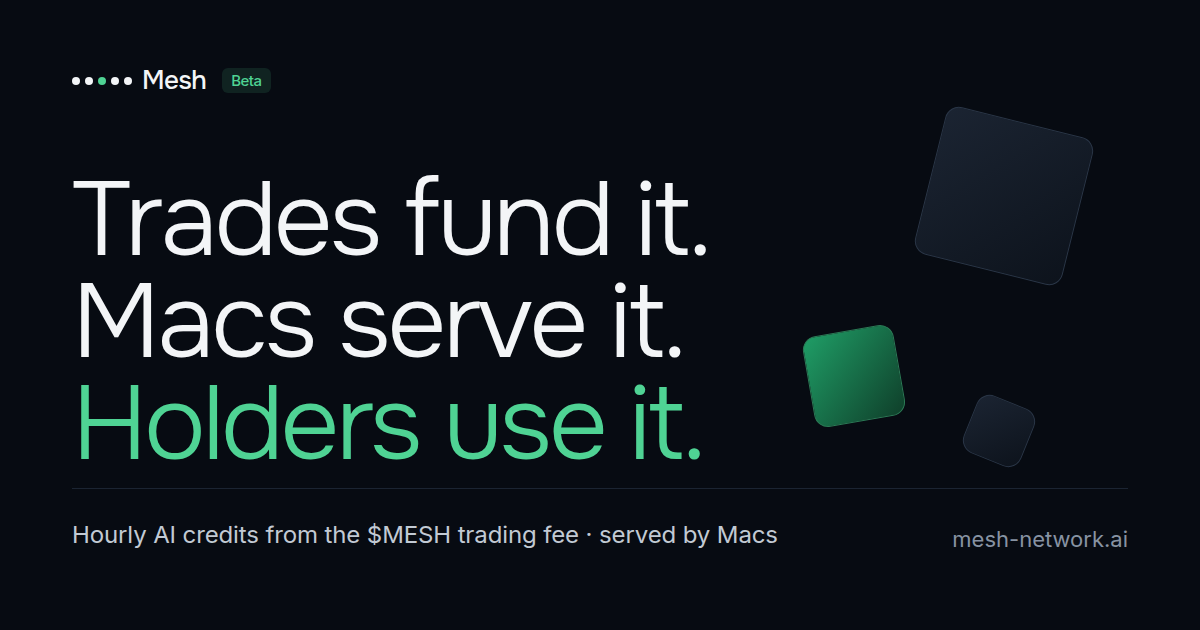
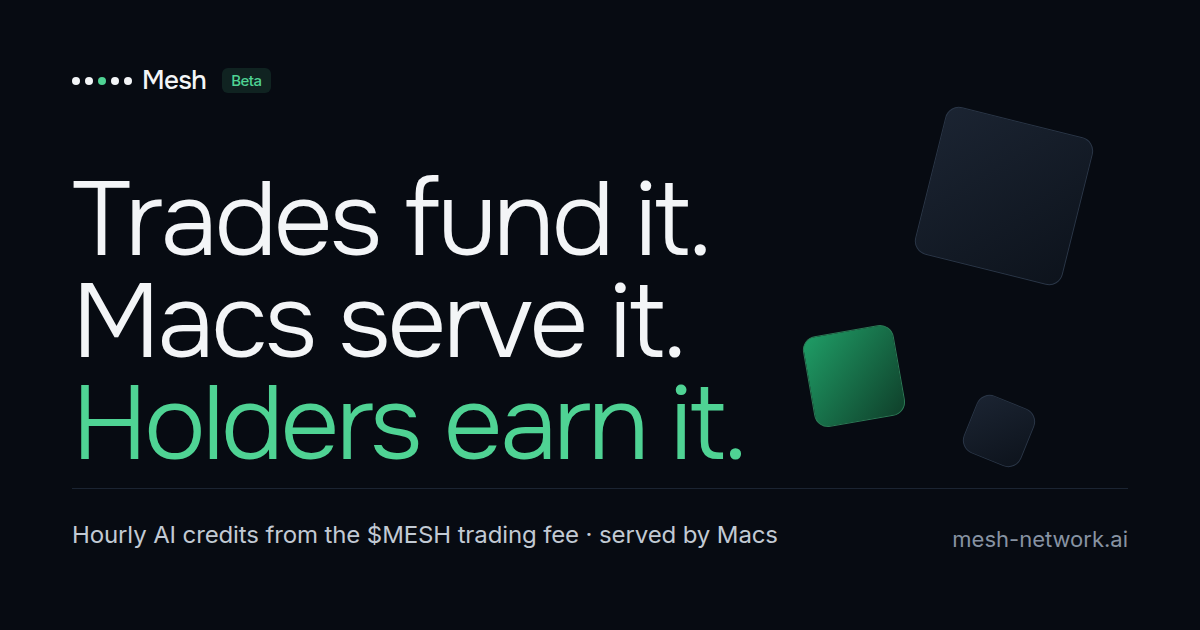
engine 2 on from launch: usageShare.enabled=true, network price $0.08/M (nodes keep $0.06, the $0.02 margin is shared 30/70), frontier at list; headline 'Holders earn it.' everywhere (hero, OG card, meta, brand); hero reads the shipped flag until /stats answers; mock mirrors config; pricing docs and

Changed region(s): [[0.37, 0.6032, 0.6167, 0.754]]

diff --git a/apps/gateway/test/catalogue.test.ts b/apps/gateway/test/catalogue.test.ts
@@ -60,8 +60,8 @@ describe('model catalogue: config', () => {
     expect(prices.models['anthropic/claude-sonnet-4.5']).toMatchObject({ promptUsdPerM: 3, completionUsdPerM: 15, tier: 'frontier' });
   });
 
-  it('requestPricing: markup and discount are exclusive; legacy markupBps folds into upstreamMarkupBps; defaults ship at 0 / 0.02', () => {
-    expect(testConfig.requestPricing).toMatchObject({ upstreamMarkupBps: 0, upstreamDiscountBps: 0, networkPricePerMTokens: 0.02 });
+  it('requestPricing: markup and discount are exclusive; legacy markupBps folds into upstreamMarkupBps; defaults ship at 0 / 0.08', () => {
+    expect(testConfig.requestPricing).toMatchObject({ upstreamMarkupBps: 0, upstreamDiscountBps: 0, networkPricePerMTokens: 0.08 });
     const legacy = parseTokenomics({ ...testConfig, requestPricing: { mode: 'passthrough', markupBps: 500 } });
     expect(legacy.requestPricing.upstreamMarkupBps).toBe(500);
     expect(() => parseTokenomics({ ...testConfig, requestPricing: { mode: 'passthrough', upstreamMarkupBps: 500, upstreamDiscountBps: 1000 } })).toThrow(/exclusive/);
@@ -78,9 +78,9 @@ describe('model catalogue: config', () => {
     expect(meshPricePerM(15, { upstreamMarkupBps: 1000, upstreamDiscountBps: 0 })).toBe(16.5);
   });
 
-  it('guest.allowedTiers defaults to open + fast; usageShare ships disabled with 3000/7000 and validates the split', () => {
+  it('guest.allowedTiers defaults to open + fast; usageShare ships enabled with 3000/7000 and validates the split', () => {
     expect(testConfig.guest.allowedTiers).toEqual(['open', 'fast']);
-    expect(testConfig.usageShare).toEqual({ enabled: false, holderBps: 3000, treasuryBps: 7000, sources: { network: true, upstream: true, marketplaceFee: true } });
+    expect(testConfig.usageShare).toEqual({ enabled: true, holderBps: 3000, treasuryBps: 7000, sources: { network: true, upstream: true, marketplaceFee: true } });
     expect(() => parseTokenomics({ ...testConfig, usageShare: { enabled: true, holderBps: 3000, treasuryBps: 6000 } })).toThrow(/10000/);
     const minimal = parseTokenomics({ ...testConfig, usageShare: undefined });
     expect(minimal.usageShare.enabled).toBe(false);
@@ -94,7 +94,7 @@ describe('GET /v1/models', () => {
     expect(r.statusCode).toBe(200);
     const body = r.json();
     expect(body.object).toBe('list');
-    expect(body.pricing).toEqual({ networkPricePerMTokens: 0.02, upstreamDiscountBps: 0, upstreamMarkupBps: 0, guestTiers: ['open', 'fast'] });
+    expect(body.pricing).toEqual({ networkPricePerMTokens: 0.08, upstreamDiscountBps: 0, upstreamMarkupBps: 0, guestTiers: ['open', 'fast'] });
     const ids: string[] = body.data.map((m: { id: string }) => m.id);
     // every curated model is listed, except an upstream id that is also a network alias's sibling (one row per tag)
     for (const id of CURATED.filter((c) => c !== 'meta-llama/llama-3.1-8b-instruct')) expect(ids).toContain(id);
@@ -116,7 +116,7 @@ describe('GET /v1/models', () => {
       tier: 'open',
       served: 'both',
       listPrice: { promptUsdPerM: 0.05, completionUsdPerM: 0.08 },
-      meshPrice: { promptUsdPerM: 0.02, completionUsdPerM: 0.02 },
+      meshPrice: { promptUsdPerM: 0.08, completionUsdPerM: 0.08 },
       privacy: 'network',
       online: 0,
       guestAllowed: true,

diff --git a/apps/web/index.html b/apps/web/index.html
@@ -7,7 +7,7 @@
     <meta name="theme-color" content="#ffffff" media="(prefers-color-scheme: light)" />
     <meta name="theme-color" content="#070b12" media="(prefers-color-scheme: dark)" />
 
-    <title>Mesh — Trades fund it. Macs serve it. Holders use it.</title>
+    <title>Mesh — Trades fund it. Macs serve it. Holders earn it.</title>
     <meta name="description" content="Hold 1,000 $MESH and AI credits land in your wallet every hour, paid from the trading fee. Spend them on open models answered by Macs at a flat network price or on Claude, GPT and Gemini through zero-data-retention providers, and sell what you do not use on the credit marketplace. Credits are a share of fees, not a promise." />
     <meta name="robots" content="index, follow" />
     <link rel="canonical" href="https://mesh-network.ai/" />
@@ -19,21 +19,21 @@
     <!-- Open Graph -->
     <meta property="og:type" content="website" />
     <meta property="og:site_name" content="Mesh" />
-    <meta property="og:title" content="Mesh — Trades fund it. Macs serve it. Holders use it." />
+    <meta property="og:title" content="Mesh — Trades fund it. Macs serve it. Holders earn it." />
     <meta property="og:description" content="Hold 1,000 $MESH and AI credits land every hour from the trading fee. One OpenAI-compatible key: open models on Macs at a flat network price, frontier models at list. Sell unused credits on the marketplace." />
     <meta property="og:url" content="https://mesh-network.ai/" />
     <meta property="og:image" content="https://mesh-network.ai/og.png" />
     <meta property="og:image:width" content="1200" />
     <meta property="og:image:height" content="630" />
-    <meta property="og:image:alt" content="Mesh: Trades fund it. Macs serve it. Holders use it. Two engines, one hourly pool." />
+    <meta property="og:image:alt" content="Mesh: Trades fund it. Macs serve it. Holders earn it. Two engines, one hourly pool." />
     <meta property="og:locale" content="en_US" />
 
     <!-- Twitter / X -->
     <meta name="twitter:card" content="summary_large_image" />
-    <meta name="twitter:title" content="Mesh — Trades fund it. Macs serve it. Holders use it." />
+    <meta name="twitter:title" content="Mesh — Trades fund it. Macs serve it. Holders earn it." />
     <meta name="twitter:description" content="Hold 1,000 $MESH and AI credits land every hour from the trading fee. Open models on Macs at a flat network price, frontier models at list, unused credits sold on the marketplace." />
     <meta name="twitter:image" content="https://mesh-network.ai/og.png" />
-    <meta name="twitter:image:alt" content="Mesh: Trades fund it. Macs serve it. Holders use it. Two engines, one hourly pool." />
+    <meta name="twitter:image:alt" content="Mesh: Trades fund it. Macs serve it. Holders earn it. Two engines, one hourly pool." />
 
     <script>
       try {

diff --git a/apps/web/scripts/og-card.html b/apps/web/scripts/og-card.html
@@ -1,0 +1,27 @@
+<!doctype html><html><head><meta charset="utf-8"><style>
+@font-face{font-family:Onest;font-weight:300;src:url(file:///home/claude/mesh-old/apps/web/node_modules/@fontsource/onest/files/onest-latin-300-normal.woff2) format('woff2')}
+@font-face{font-family:Onest;font-weight:500;src:url(file:///home/claude/mesh-old/apps/web/node_modules/@fontsource/onest/files/onest-latin-500-normal.woff2) format('woff2')}
+@font-face{font-family:Inter;font-weight:400;src:url(file:///home/claude/mesh-old/apps/web/node_modules/@fontsource/inter/files/inter-latin-400-normal.woff2) format('woff2')}
+@font-face{font-family:Inter;font-weight:500;src:url(file:///home/claude/mesh-old/apps/web/node_modules/@fontsource/inter/files/inter-latin-500-normal.woff2) format('woff2')}
+html,body{margin:0;width:1200px;height:630px;background:#070b12;color:#f3f5f7;font-family:Inter,sans-serif;-webkit-font-smoothing:antialiased}
+.wrap{position:relative;width:1200px;height:630px;overflow:hidden}
+.logo{position:absolute;left:72px;top:64px;display:flex;align-items:center;gap:10px;font-family:Onest;font-weight:500;font-size:26px;letter-spacing:-.02em}
+.dots{display:inline-flex;gap:5px}.dots i{width:8px;height:8px;border-radius:50%;background:#f3f5f7;display:block}.dots i:nth-child(3){background:#4fd394}
+.beta{font:500 15px Inter;color:#4fd394;background:rgba(79,211,148,.12);padding:3px 9px;border-radius:6px;margin-left:6px}
+h1{position:absolute;left:72px;top:170px;margin:0;font-family:Onest;font-weight:300;font-size:104px;line-height:.98;letter-spacing:-.035em}
+h1 em{font-style:normal;color:#4fd394}
+.sub{position:absolute;left:72px;top:520px;font-size:24px;color:#c2cad4;letter-spacing:-.005em}
+.url{position:absolute;right:72px;top:526px;font-size:22px;color:#8793a3}
+.cube{position:absolute;border-radius:14px;background:linear-gradient(135deg,#1b2432,#0d131c);border:1px solid #2a3647}
+.c1{width:150px;height:150px;right:120px;top:120px;transform:rotate(14deg)}
+.c2{width:90px;height:90px;right:300px;top:330px;transform:rotate(-10deg);background:linear-gradient(135deg,#1f9d66,#0f3f2a);border-color:#2b7a55}
+.c3{width:60px;height:60px;right:170px;top:400px;transform:rotate(22deg)}
+.line{position:absolute;left:72px;right:72px;top:488px;height:1px;background:#1b2432}
+</style></head><body><div class="wrap">
+<div class="cube c1"></div><div class="cube c2"></div><div class="cube c3"></div>
+<div class="logo"><span class="dots"><i></i><i></i><i></i><i></i><i></i></span>Mesh<span class="beta">Beta</span></div>
+<h1>Trades fund it.<br>Macs serve it.<br><em>Holders earn it.</em></h1>
+<div class="line"></div>
+<div class="sub">Hourly AI credits from the $MESH trading fee · served by Macs</div>
+<div class="url">mesh-network.ai</div>
+</div></body></html>

diff --git a/apps/web/src/pages/Landing.tsx b/apps/web/src/pages/Landing.tsx
@@ -83,7 +83,7 @@ const CHAT_ID = 'guest-chat';
 export function Landing() {
   const { data: stats, error } = useStats();
   // Engine 2 (docs/PRICING.md): the gateway says whether the usage-revenue share is on. Off until it confirms.
-  const usageOn = stats?.usageShareEnabled === true;
+  const usageOn = stats?.usageShareEnabled ?? TOKENOMICS.usageShare.enabled; // the gateway's live flag; the shipped config until it answers
   const discountBps = stats?.upstreamDiscountBps ?? T.upstreamDiscountBps;
   const frontierPhrase = discountBps > 0 ? `frontier models ${discountBps / 100}% below list` : 'frontier models through zero-data-retention providers';
   // `?ref=CODE` from a referral link: keep it until the wallet signs in and claims it on the dashboard.
@@ -144,23 +144,11 @@ export function Landing() {
             <BetaPill />
           </p>
           <h1 className="display home-h1" id="hero-h1">
-            {usageOn ? (
-              <>
-                Trades fund it.
-                <br />
-                Usage funds it.
-                <br />
-                <em>Macs serve it.</em>
-              </>
-            ) : (
-              <>
-                Trades fund it.
-                <br />
-                Macs serve it.
-                <br />
-                <em>Holders use it.</em>
-              </>
-            )}
+            Trades fund it.
+            <br />
+            Macs serve it.
+            <br />
+            <em>Holders earn it.</em>
           </h1>
           <p className="lede">
             Hold {minHold} and AI credits land in your wallet every {epochWord}, paid from the {feePct} trading fee
@@ -217,7 +205,7 @@ export function Landing() {
             </h2>
             <p className="sub">
               Trading pays a {feePct} fee; {holderPct} becomes credits for holders every {epochWord}, {treasuryPct} goes to the treasury. Paid requests and marketplace sales leave a
-              margin{usageOn ? ', and a share of it joins the same pool' : '; the holder share of it is built and switches on with the pricing decision'}. The treasury pays the Macs.
+              margin{usageOn ? ', and a share of it joins the same pool' : '; the holder share of it switches on with the token launch'}. The treasury pays the Macs.
             </p>
           </div>
         </div>

diff --git a/apps/web/e2e/app.spec.ts b/apps/web/e2e/app.spec.ts
@@ -8,14 +8,15 @@ test.describe('landing', () => {
     const h1 = page.getByRole('heading', { level: 1 });
     await expect(h1).toContainText('Trades fund it.');
     await expect(h1).toContainText('Macs serve it.');
-    // config/tokenomics.json ships usageShare.enabled=false → the third line is the holders one, and the
-    // engine-2 arrow into the pool is dashed with a "coming" label (never claimed live).
-    await expect(h1).toContainText('Holders use it.');
-    await expect(h1).not.toContainText('Usage funds it.');
+    // config/tokenomics.json ships usageShare.enabled=true → the engine-2 arrow into the pool is solid
+    // and the lede names the usage share; the gateway's live flag can still switch it off.
+    await expect(h1).toContainText('Holders earn it.');
     const engines = page.locator('.engines');
-    await expect(engines).toHaveAttribute('data-usage-share', 'off');
+    await expect(engines).toHaveAttribute('data-usage-share', 'on');
     await expect(engines.locator('svg.wide')).toBeVisible();
-    await expect(engines.locator('svg.wide')).toContainText('30% share · coming');
+    await expect(engines.locator('svg.wide')).toContainText('30% share');
+    await expect(engines.locator('svg.wide')).not.toContainText('coming');
+    await expect(page.locator('.home-hero .lede')).toContainText('share of paid usage');
     await expect(engines.locator('svg.wide')).toContainText('1.5% fee');
     await expect(page.getByText('Nothing is minted to pay anyone.')).toBeVisible();
     // Lede names the four things the product does.
@@ -560,7 +561,7 @@ test.describe('signed-in app', () => {
     await expect(page.locator('#treasury')).toContainText('Treasury ledger');
     await expect(page.locator('#treasury')).toContainText('Credit marketplace');
     await expect(page.locator('#treasury')).toContainText('Usage-revenue share');
-    await expect(page.locator('#treasury .pill', { hasText: 'off' })).toBeVisible(); // usageShare ships disabled
+    await expect(page.locator('#treasury .pill', { hasText: /^on$/ })).toBeVisible(); // usageShare ships enabled
     await expect(page.locator('main')).not.toContainText('Something broke');
     // Old addresses redirect and keep their hash.
     await page.goto('/report#treasury');

diff --git a/apps/gateway/test/usage-share.test.ts b/apps/gateway/test/usage-share.test.ts
@@ -98,7 +98,7 @@ describe('usage-revenue share: gateway', () => {
     const { serveNetwork, serveUpstream, pool, poolRows, logRows, app } = await boot(cfg({ requestPricing: { ...testConfig.requestPricing, networkPricePerMTokens: 0.08, upstreamMarkupBps: 2000 } }));
     const { res, jobId } = await serveNetwork();
     expect(res.json().usage.cost).toBe(NET_BILLED / 1e6);
-    expect(networkMicros(TOKENS)).not.toBe(NET_BILLED); // this test runs its own price, not the shipped 0.02
+    expect(networkMicros(TOKENS)).toBe(NET_BILLED); // 0.08/M is also the shipped price
     expect(rewardMicros(TOKENS)).toBe(NET_REWARD);
     expect(poolRows()).toEqual([{ source: 'usage', usd_micros: NET_HOLDERS, ref: `usage:job:${jobId}` }]);
     expect(logRows()[0]).toMatchObject({ source: 'network', wallet: 'alice', model: 'llama-3.1-8b', billed_micros: NET_BILLED, cost_micros: NET_REWARD, margin_micros: NET_MARGIN, holder_micros: NET_HOLDERS, treasury_micros: NET_MARGIN - NET_HOLDERS });
@@ -133,7 +133,7 @@ describe('usage-revenue share: gateway', () => {
     expect(stats.usageShareEnabled).toBe(true);
   });
 
-  it('disabled (the shipped default): paid requests write nothing', async () => {
+  it('disabled: paid requests write nothing', async () => {
     const { serveNetwork, serveUpstream, pool, logRows, app } = await boot(cfg({}, { enabled: false }));
     await serveNetwork();
     await serveUpstream();
@@ -142,7 +142,7 @@ describe('usage-revenue share: gateway', () => {
     const report = (await app.inject({ method: 'GET', url: '/report' })).json();
     expect(report.totals.usageShare).toMatchObject({ enabled: false, marginUsd: 0, toHoldersUsd: 0, toTreasuryUsd: 0 });
     expect((await app.inject({ method: 'GET', url: '/stats' })).json().usageShareToHolders24hUsd).toBe(0);
-    expect(testConfig.usageShare.enabled).toBe(false);
+    expect(testConfig.usageShare.enabled).toBe(true); // shipped on
   });
 
   it('negative margin contributes nothing: an upstream discount (billed < list) and a network price below the node reward', async () => {

diff --git a/apps/web/src/content/brief.ts b/apps/web/src/content/brief.ts
@@ -12,6 +12,7 @@ export function meshBrief(): string {
     `- A ${(t.tradeFeeBps / 100).toFixed(1)}% fee on every $${t.ticker} trade is collected automatically. Every hour, ${t.holderShareBps / 100}% of it becomes AI credits (denominated in US dollars) split pro rata across wallets holding at least ${t.minHoldTokens.toLocaleString()} ${t.ticker}; ${t.treasuryShareBps / 100}% goes to the treasury, which pays the Macs that serve requests.`,
     `- Credits are spent through an OpenAI-compatible API or the chat app: open models (Llama, Qwen) run on Apple Silicon Macs in the network for a flat $${t.networkPricePerMTokens} per million tokens; frontier models (Claude, GPT, Gemini, DeepSeek, Grok and others) go through zero-data-retention upstream providers at list price.`,
     `- Anyone can run a node: a Mac with Ollama, linked with a one-time code from the web app. Nodes earn $${t.nodeRewardUsdPerMTokens} per million tokens served, paid from the treasury share. Nodes never see who asked and keep nothing after the reply.`,
+    `- A second engine: the margin on paid requests (the network price minus what the Mac is paid, plus the marketplace fee) is shared ${t.usageShare.holderBps / 100}% to the hourly holder pool and ${t.usageShare.treasuryBps / 100}% to the treasury. Frontier requests carry no margin by design.`,
     `- Credits nobody will use can be sold on a marketplace below face value; the fee is ${t.marketplace.feeBps / 100}%, half of it back to the holder pool.`,
     `- Nothing is minted to pay anyone; every epoch, fee and payout is public on the stats page. ${t.name} is in open beta; the token launches on Pons on Robinhood Chain.`,
     'Keep answers short and concrete. If asked something about Mesh that is not covered above, say you do not know rather than guessing.',

diff --git a/apps/gateway/test/network.test.ts b/apps/gateway/test/network.test.ts
@@ -178,7 +178,7 @@ describe('node protocol: end to end', () => {
     const reward = rewardMicros(100);
     expect(cost).toBe(100 * NETWORK_PRICE_PER_M);
     expect(reward).toBe(100 * NODE_REWARD_PER_M);
-    expect(reward).toBeGreaterThan(cost); // node reward exceeds the user price by design (treasury-funded gap)
+    expect(cost).toBeGreaterThan(reward); // the user price covers the node reward; the difference is the engine-2 margin
     expect(last.usage).toMatchObject({ prompt_tokens: 40, completion_tokens: 60, total_tokens: 100, cost: usd(cost) });
     expect(last.mesh).toMatchObject({ route: 'node', nodeId: 'mac-1', chip: 'M3 Max', jobId: job.jobId });
     expect(res.body.trim().endsWith('data: [DONE]')).toBe(true);
@@ -508,7 +508,7 @@ describe('config + helpers', () => {
     // schema defaults match the shipped config, so a missing key cannot silently reprice the network
     expect(c.requestPricing.networkPricePerMTokens).toBe(testConfig.requestPricing.networkPricePerMTokens);
     expect(c.nodeRewards.usdPerMTokens).toBe(testConfig.nodeRewards.usdPerMTokens);
-    expect(c.requestPricing.networkPricePerMTokens).toBe(0.02);
+    expect(c.requestPricing.networkPricePerMTokens).toBe(0.08);
     expect(c.nodeRewards.usdPerMTokens).toBe(0.06);
     expect(c.routing).toEqual({ preferNetwork: true, firstTokenTimeoutMs: 8000, stallTimeoutMs: 6000, jobTimeoutMs: 120_000, defaultMaxTokens: 1024, minSuccessRate: 0.8, reputationMinJobs: 5, queueWaitMs: 6000, maxQueueDepthPerNode: 3, maxParallelPerNode: 4 });
     expect(() => parseTokenomics({ ...raw, nodeRewards: { usdPerMTokens: -1 } })).toThrow();

diff --git a/apps/web/src/lib/mock.ts b/apps/web/src/lib/mock.ts
@@ -185,7 +185,8 @@ const state = {
 })();
 
 /** Engine 2 (usage-revenue share) in mock mode: `VITE_MOCK_USAGE_SHARE=1` previews the "on" state of the homepage diagram and the report. */
-const MOCK_USAGE_SHARE_ON = import.meta.env.VITE_MOCK_USAGE_SHARE === '1';
+// Mirrors config/tokenomics.json unless VITE_MOCK_USAGE_SHARE=0/1 forces it for a screenshot.
+const MOCK_USAGE_SHARE_ON = import.meta.env.VITE_MOCK_USAGE_SHARE ? import.meta.env.VITE_MOCK_USAGE_SHARE === '1' : TOKENOMICS.usageShare.enabled;
 
 export const mockStats = async (): Promise<Stats> => {
   await sleep(350);
@@ -223,7 +224,7 @@ export const mockStats = async (): Promise<Stats> => {
     beta: MOCK_BETA,
     verificationEnabled: true,
     starterGrants: { enabled: mockStarter.enabled, amountUsd: TOKENOMICS.starterCredits.amountUsd, granted: mockStarter.grants.length, remaining: Math.max(0, TOKENOMICS.starterCredits.maxWallets - mockStarter.grants.length) },
-    usageShareEnabled: MOCK_USAGE_SHARE_ON, // mirrors config/tokenomics.json: built, off by default
+    usageShareEnabled: MOCK_USAGE_SHARE_ON,
     usageShareToHolders24hUsd: MOCK_USAGE_SHARE_ON ? 61.2 : 0,
     upstreamDiscountBps: TOKENOMICS.upstreamDiscountBps,
     upstreamMarkupBps: TOKENOMICS.upstreamMarkupBps,

diff --git a/apps/web/e2e/global-setup.ts b/apps/web/e2e/global-setup.ts
@@ -13,5 +13,8 @@ export default async function globalSetup() {
   };
   await post('/admin/fake-fees', { amountUsd: 100 });
   const epoch = await post('/admin/run-epoch', {});
-  if (epoch.status !== 'complete') throw new Error(`seed epoch not complete: ${JSON.stringify(epoch)}`);
+  // The gateway may run the same epoch itself right after boot (cron catch-up); the admin call then loses the
+  // per-DB lock and answers `skipped` with the stored figures. Seeded either way as long as holders were paid.
+  const seeded = epoch.status === 'complete' || (epoch.status === 'skipped' && Number(epoch.eligibleHolders) > 0 && Number(epoch.holderPoolUsdMicros) > 0);
+  if (!seeded) throw new Error(`seed epoch not complete: ${JSON.stringify(epoch)}`);
 }

diff --git a/packages/config/src/index.ts b/packages/config/src/index.ts
@@ -48,7 +48,7 @@ export const TokenomicsSchema = z
         upstreamMarkupBps: bps.default(0),
         upstreamDiscountBps: bps.default(0),
         /** USD per 1M total tokens charged to the user when a Mesh node serves the request. */
-        networkPricePerMTokens: z.number().min(0).default(0.02),
+        networkPricePerMTokens: z.number().min(0).default(0.08),
         /**
          * "Network credits": when a Mesh node serves a request the user is billed the flat network
          * price above instead of the model's list price (config/model-prices.json). With showSavings

diff --git a/docs/PRICING.md b/docs/PRICING.md
@@ -54,7 +54,7 @@ alone; `--dry-run` prints the diff). The file records `_refreshedAt`.
 | `qwen-2.5-14b` (network only; what 32 GB+ Macs pull) | open | 0.06 | 0.18 | network |
 | `llama-3.1-70b` (network only; `--with-70b` on 64 GB Macs) | open | 0.10 | 0.32 | network |
 
-Network models bill the flat network price instead: **$0.02 per 1M total tokens** (`networkPricePerMTokens`),
+Network models bill the flat network price instead: **$0.08 per 1M total tokens** (`networkPricePerMTokens`),
 for any model a node serves.
 
 ## 2. How a request is billed
@@ -63,12 +63,12 @@ Credits are USD. A request is billed in micro-USD and debited from the wallet's 
 
 | served by | the user pays | it costs Mesh | treasury funds |
 | --- | --- | --- | --- |
-| a Mesh node | `tokens × networkPricePerMTokens` ($0.02/M) | the node reward, `tokens × nodeRewards.usdPerMTokens` ($0.06/M), accrued against the treasury | the **network gap**: $0.04/M at the shipped values |
+| a Mesh node | `tokens × networkPricePerMTokens` ($0.08/M) | the node reward, `tokens × nodeRewards.usdPerMTokens` ($0.06/M), accrued against the treasury | nothing — the $0.02/M **network margin** feeds engine 2 (§3) |
 | the upstream | `list × (1 − upstreamDiscountBps/10000)` or `list × (1 + upstreamMarkupBps/10000)` | `list` (what OpenRouter charged, `usage.cost`; fallback: `model-prices.json`) | the **discount gap**: `list × discount` (a markup is margin instead) |
 
 `upstreamMarkupBps` and `upstreamDiscountBps` are exclusive: the config refuses both non-zero. The
 legacy `markupBps` key is still read and folded into `upstreamMarkupBps`. Shipped values:
-`upstreamDiscountBps: 0`, `upstreamMarkupBps: 0`, `networkPricePerMTokens: 0.02`.
+`upstreamDiscountBps: 0`, `upstreamMarkupBps: 0`, `networkPricePerMTokens: 0.08`.
 
 Every reply reports `usage.cost` (what was billed) and, on network-served replies, `mesh.listCostUsd`
 and `mesh.savedUsd`. `requests_log` keeps `cost_usd_micros`, `list_cost_usd_micros` and
@@ -106,9 +106,9 @@ when the upstream invoice arrives; it is not booked per request):
 | 30 % | $700 | $300 | $0.00735 | $0.00438 | $0.00109 |
 | 40 % | $600 | $400 | $0.00630 | $0.00375 | $0.00093 |
 
-Compare the network gap on the same $1,000 of spend at $0.02/M: 50M tokens served, node rewards
-$3,000, treasury funds $2,000. The discount is the cheaper subsidy per dollar of usage; the network
-is the one that builds supply. Keep the sum of the two gaps under the treasury share of fees
+The network leg carries no gap at the shipped $0.08/M (nodes get $0.06, the $0.02 margin is engine 2);
+it only becomes a subsidy if the price is dropped below the node reward (at $0.02/M, $1,000 of spend
+is 50M tokens, $3,000 of node rewards and a $2,000 gap). Keep the sum of any gaps under the treasury share of fees
 (`treasuryShareBps`, 50 % of a 1.5 % trade fee) over a rolling week; `GET /report`
 (`totals.treasury`, `byWeek`) is the dashboard for that.
 
@@ -129,12 +129,12 @@ node rewards, the network gap, the discount gap, guest chat and ops.
 
 Worked hour: $100,000 traded → $1,500 fees → $750 of credits to holders, $750 to the treasury.
 
-### Engine 2: usage-revenue share (ships off)
+### Engine 2: usage-revenue share (on from launch)
 
 ```jsonc
 // config/tokenomics.json
 "usageShare": {
-  "enabled": false,
+  "enabled": true,
   "holderBps": 3000,
   "treasuryBps": 7000,
   "sources": { "network": true, "upstream": true, "marketplaceFee": true }
@@ -161,9 +161,10 @@ treasuryBps` must equal 10000.
 only decides whether it is **counted** in the usage-share report. That was the simpler choice and it
 is how it ships.
 
-**Turning it on.** At the shipped network price ($0.02/M) every network request runs at a loss and
-contributes nothing, and with no markup every upstream request has a zero margin. Engine 2 needs a
-margin to share, so the suggested combination is:
+**Why the network price is $0.08.** Engine 2 needs a margin to share. Below the node reward ($0.06/M)
+every network request runs at a loss and contributes nothing, and with no markup every upstream
+request has a zero margin by design (price-matched to OpenRouter is the frontier hook). The shipped
+combination is:
 
 ```jsonc
 "requestPricing": { "mode": "passthrough", "upstreamMarkupBps": 0, "upstreamDiscountBps": 0, "networkPricePerMTokens": 0.08, "showSavings": true },
@@ -174,9 +175,11 @@ margin to share, so the suggested combination is:
 Worked numbers at those values, per 1M network tokens: user pays $0.08, node earns $0.06, margin
 $0.02 → **$0.006 to holders, $0.014 to the treasury**. A 1,500-token chat (1k in, 500 out) pays
 $0.000120, the node gets $0.000090, holders get $0.000009. At 10B network tokens a month that is
-$60,000 to holders on top of fee credits, with Llama 3.1 8B still 50 % below OpenRouter's $0.05 /
-$0.08 list on the pricing page. Pair it with an upstream markup (not a discount) if the upstream leg
-should contribute too: `upstreamMarkupBps: 1000` on $100,000 of monthly upstream list usage is a
+$60,000 to holders on top of fee credits. Note what the flat price does to the savings line: Qwen 2.5 14B
+(list $0.06 / $0.18) and Llama 3.1 70B ($0.10 / $0.32) are still well below list on the network, but
+Llama 3.1 8B (list $0.05 / $0.08) is now at or slightly above OpenRouter for prompt tokens — `savedUsd`
+clamps at zero, so the pitch for the 8B model is privacy (the request never leaves the Mac network),
+not price. Pair it with an upstream markup (not a discount) if the upstream leg should contribute too: `upstreamMarkupBps: 1000` on $100,000 of monthly upstream list usage is a
 $10,000 margin → $3,000 to holders.
 
 Where to see it: `GET /report` → `totals.usageShare { enabled, holderBps, treasuryBps, marginUsd,
@@ -194,7 +197,6 @@ not spend a free message. The treasury pays for guest traffic and it never feeds
 > **Frontier models at a discount, open models on Macs, and a token that earns from both.**
 > Mesh gives you Claude, GPT-5, Gemini, Grok and DeepSeek through one OpenAI-compatible key at or
 > below list price, routed only to zero-data-retention providers, and runs Llama and Qwen on a
-> network of Macs for a flat $0.02 per million tokens. Your credits come from trading fees every
-> hour, and when the usage-revenue share is switched on, a share of the margin on every paid
-> request flows back into the next hour's pool. Holders earn when people use the network, not only
+> network of Macs for a flat $0.08 per million tokens. Your credits come from trading fees every
+> hour, and a share of the margin on every paid request flows back into the next hour's pool. Holders earn when people use the network, not only
 > when they trade it.
